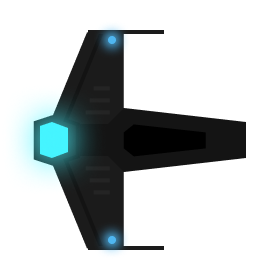
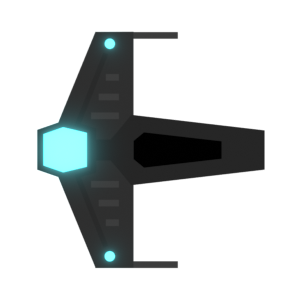
add blender ship & fix light

diff --git a/clientgameobjects.js b/clientgameobjects.js
@@ -168,6 +168,8 @@ function ShadedSprite(parent, prefix, sizeObject, isPlayer, disableShadow) {
 
     this.mesh = new PIXI.Mesh(this.geometry, this.material);
 
+    this.mesh.f
+
     if (!disableShadow)
         this.shadow = new PIXI.Sprite(loader.resources["shadow"].texture);
 
